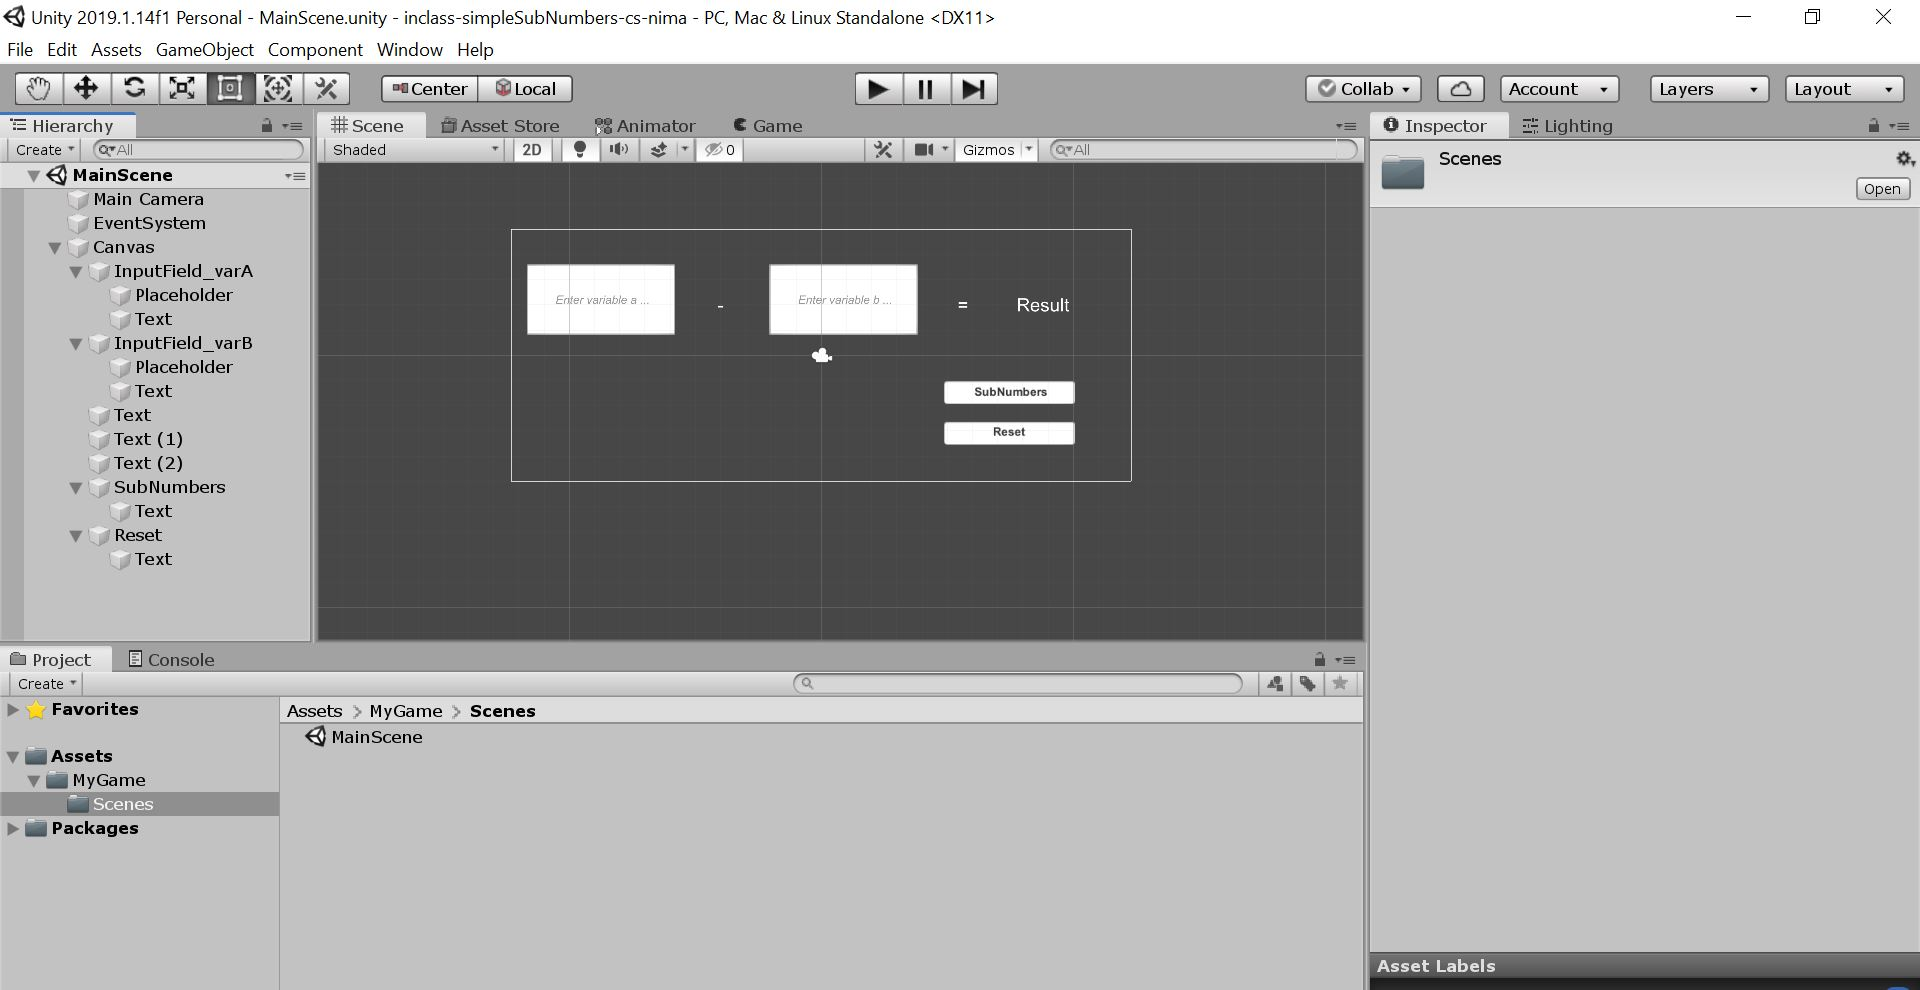
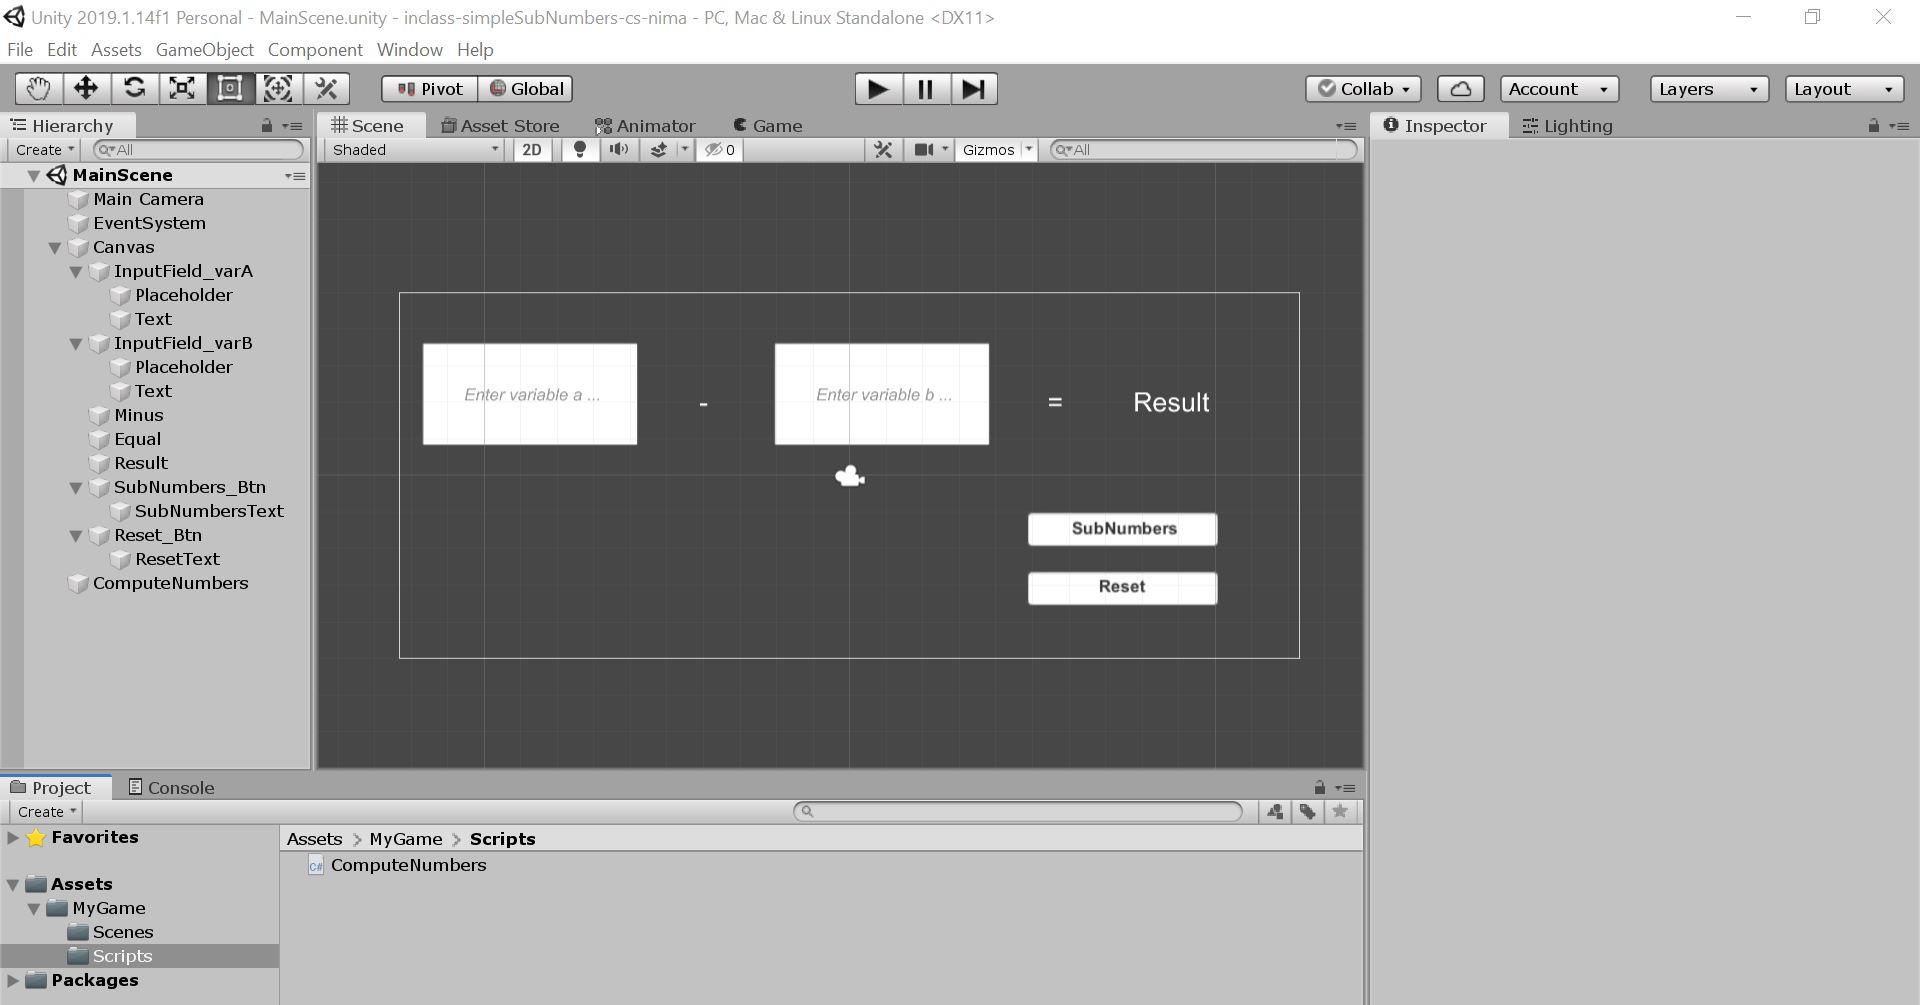
new Screenshots

diff --git a/README.md b/README.md
@@ -6,9 +6,11 @@
 * Create GitHub repository and clone it locally
 * Copy in Unity 2019
 * Build a GUI
+* Script for input fields and buttons
 
 ### Development platform: 
 * Unity 2019.1.14.f1
+* Visual Studio Community 2019
 
 ### Target platform: 
 * WebGL (Resolution 1920 x 780)
@@ -24,5 +26,8 @@
 ### Lessons Learned: 
 * Creating GUI with Input Fields and Buttons
 * Create own Ref Resolution in Unity
+* Create Script for input fields
+* Create SubNumbers Button Script 
+* Create Reset Button
 
 Copyright by nima
